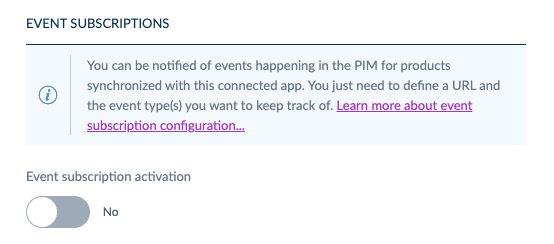
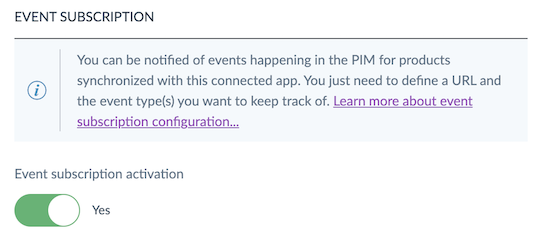
Fix images & links

diff --git a/content/updates/2021-01/1-Accelerate-your-connections-with-the-events-api.md b/content/updates/2021-01/1-Accelerate-your-connections-with-the-events-api.md
@@ -1,4 +1,5 @@
 ---
+pim_announcement_img: ./img/event-connection-activation.png
 pim_announcement_alt_img: "Events activation in the Connections"
 pim_announcement_audience:
 - CE
@@ -10,12 +11,14 @@ pim_announcement_audience:
 
 You may know how crucial it is to efficiently connect your PIM to third-party applications such as your ERP, eCommerce platform, or DAM. To help you speed up on this topic, we're launching a brand new API, called the `Events API`.
 
-Coupled with our [existing REST API](https://api.akeneo.com/documentation/introduction.html), the Events API offers an additional and complementary way to synchronize PIM data with third-party applications. By reducing synchronization delays, it gives you the power to improve the time to market of your product information.
+Coupled with our [existing REST API](https://api.akeneo.com/documentation/introduction.html), the Events API offers an additional and complementary way to synchronize PIM data with third-party applications. By reducing synchronization delays, it gives you the power to accelerate the access and distribution of your product information.
 
 This new feature can be activated in the new tab named `Event subscription` for each connection. Don't hesitate to try it out; we're eager to hear your feedback!
 
 ![Events activation in the Connections screen](../img/event-connection-activation.png)
 
 ::: more
-[What is data quality?](../articles/understand-data-quality.html)
+[What is a connection?](../articles/what-is-a-connection.html)  
+[How to manage your connections?](../articles/manage-your-connections.html)  
+[How to monitor your third-party connections?](../articles/connection-dashboard.html)  
 :::
